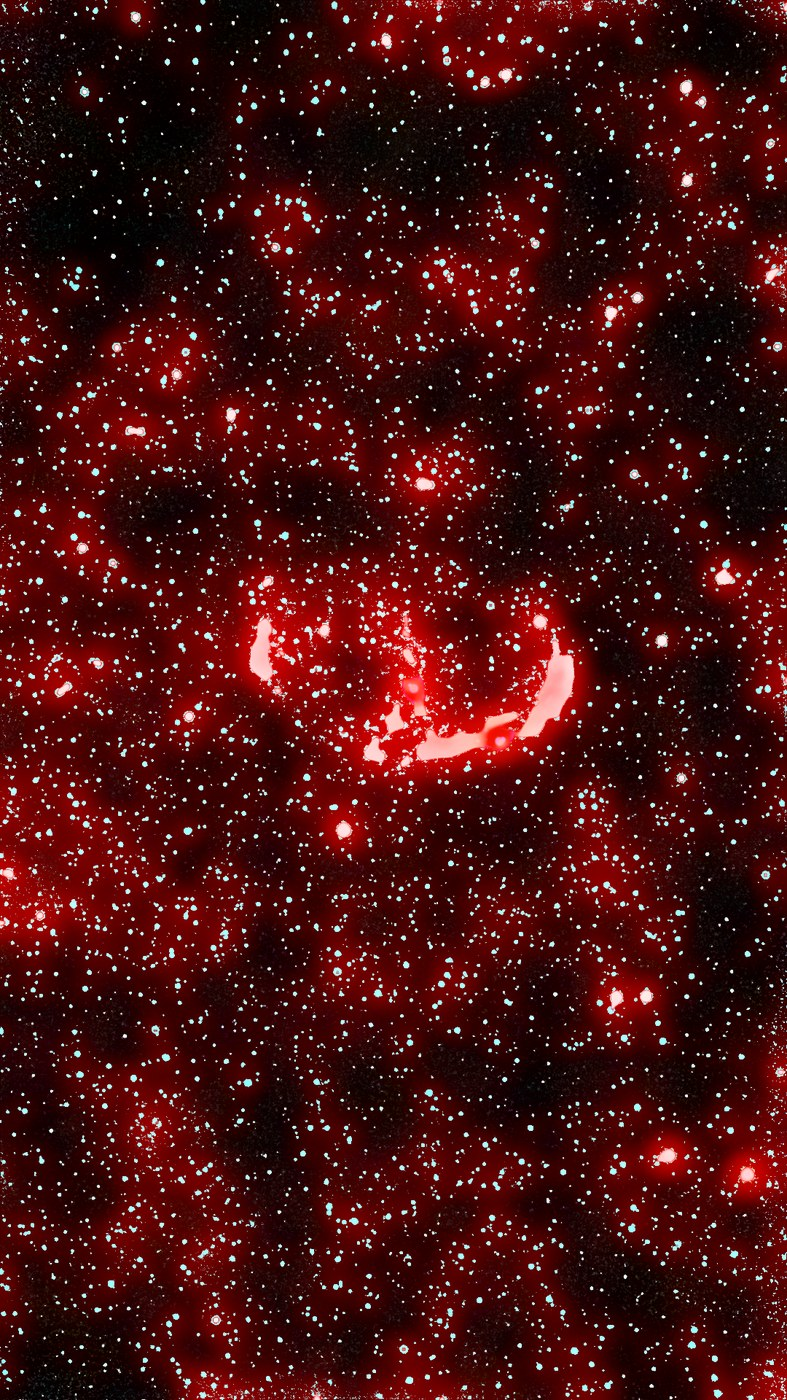
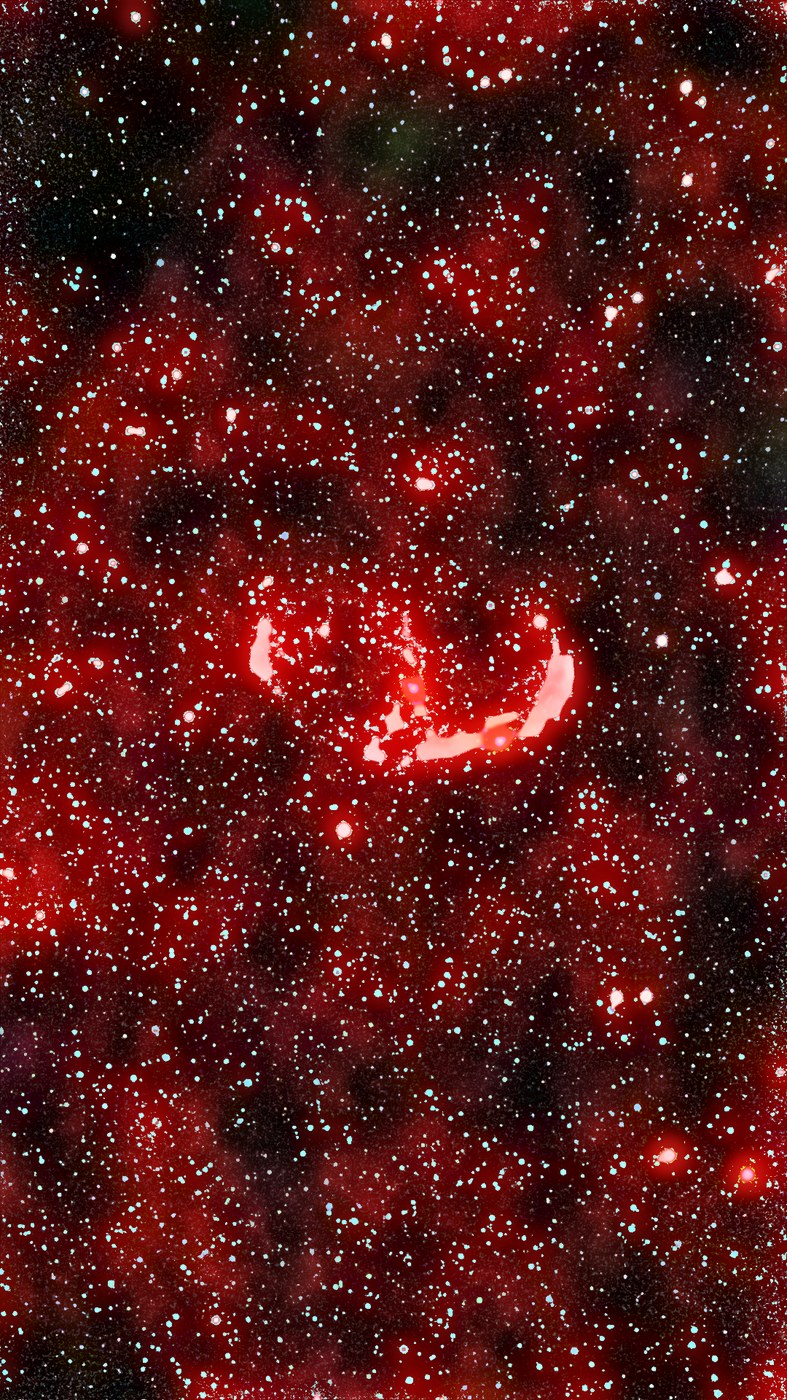
SPCC: add strength param + dial back saturation/SCNR on nebula profiles
The Phase 5 SPCC result ran the full fitted gain (diagonal
[1.58, 0.70, 0.73] for NGC 6888, similar shape on 2244/6960),
which rendered nebulae way too red — the gains are partly
compensating for the mismatch between Gaia BP/RP passbands and a
broadband camera's RGB filters, so applying them full-strength
over-corrects. Siril's PCC does the equivalent by normalising
against a G2V solar reference; we approximate by blending the
fitted CCM with identity.

stages/spcc.py:
  + new  kwarg.  so 0 = identity, 1 = full CCM, 0.5 = half-way.
    Default 0.5 was visually tuned against the three user samples.

profiles.py:
  NEBULA_WIDE     curves saturation 1.25 → 1.0
                  color.green_clip  0.3   → 0.15
                  spcc.strength     -      → 0.45
  NEBULA_FILAMENT curves saturation 1.3   → 1.0
                  color.green_clip  0.5   → 0.3
                  spcc.strength     -      → 0.50
  Saturation > 1 compounded with SPCC's already-boosting gains;
  stepping it to 1.0 lets SPCC + the arcsinh stretch carry the
  chroma on their own.

tests: 110 passing — existing tests kept green by passing
 where the whole-frame-diff assertion expects full
SPCC.

Also regenerates docs/v2-samples/ with the fresh outputs so the
mobile-viewer links on the v2 branch point at the current images.

Fetched docs/v2-samples/*.jpg to ~400 KB for mobile loading.

diff --git a/backend/app/profiles.py b/backend/app/profiles.py
@@ -200,7 +200,11 @@ NEBULA_WIDE: Profile = {
         **NEBULA["color"],
         "ccm": None,
         "wb_strength": 0.0,
-        "green_clip": 0.3,
+        # SPCC already shifts chroma via the fitted gains; running a
+        # hard SCNR on top of that pushes green completely out and
+        # leaves R/B ratios skewed. Gentle SCNR is enough to tame
+        # residual Seestar green without fighting SPCC.
+        "green_clip": 0.15,
     },
     "stretch": {
         "black_percentile": 3.0,
@@ -214,15 +218,21 @@ NEBULA_WIDE: Profile = {
         "chroma_edge_aware": True,
         "chroma_edge_luma_sigma": 0.06,
     },
-    # Drop channel_gains here — SPCC's CCM already shifts the image
-    # toward the Gaia-derived colour balance, so a post-stretch gain
-    # layer would push too far.
+    # Saturation 1.0 — SPCC's fitted gains plus the arcsinh stretch
+    # together already produce enough chroma for an emission nebula.
+    # A positive saturation on top over-saturates the Ha-red regions
+    # we're calibrating toward.
     "curves": {
         "contrast": 0.65,
-        "saturation": 1.25,
+        "saturation": 1.0,
         "saturation_mode": "hsv",
     },
-    "spcc": {"min_matches": 20},
+    # strength=0.45 — apply 45% of SPCC's fitted gain. Full strength
+    # (1.0) on broadband Seestar data pushes R too hard because Gaia's
+    # RP band is wider / extends further into the IR than a camera's
+    # red filter. Dialling back lets us keep the SPCC star-match
+    # direction without overcooking the result.
+    "spcc": {"min_matches": 20, "strength": 0.45},
     # Wide nebulae don't benefit much from star split — the diffuse
     # signal is too embedded in the star field for median-based
     # separation to help cleanly — but the split also doesn't hurt,
@@ -243,7 +253,7 @@ NEBULA_FILAMENT: Profile = {
         **NEBULA["color"],
         "ccm": None,
         "wb_strength": 0.0,
-        "green_clip": 0.5,
+        "green_clip": 0.3,
     },
     "stretch": {
         "black_percentile": 15.0,
@@ -257,12 +267,19 @@ NEBULA_FILAMENT: Profile = {
         "chroma_edge_aware": True,
         "chroma_edge_luma_sigma": 0.10,
     },
+    # Saturation 1.0 — SPCC + stretch already supply enough chroma
+    # for Veil-class targets. Saturation > 1 on top over-saturates
+    # the filaments and starts showing chroma noise in the sky.
     "curves": {
         "contrast": 1.0,
-        "saturation": 1.3,
+        "saturation": 1.0,
         "saturation_mode": "hsv",
     },
-    "spcc": {"min_matches": 20},
+    # strength=0.5 — filament profiles have cleaner sky so we tolerate
+    # a slightly stronger SPCC application than nebula_wide. Still
+    # dialled well back from 1.0 for the same Gaia-bands-vs-camera
+    # mismatch reason explained in the NEBULA_WIDE profile above.
+    "spcc": {"min_matches": 20, "strength": 0.5},
     # Smaller radius so the filament's ~5-8 px narrow structure isn't
     # caught by the median filter as a "star" — keeps it in the
     # starless layer where it can be stretched aggressively.

diff --git a/backend/app/stages/spcc.py b/backend/app/stages/spcc.py
@@ -462,6 +462,7 @@ def process(
     luma_weighted: bool = True,
     sky_percentile: float = 10.0,
     signal_percentile: float = 95.0,
+    strength: float = 0.5,
     **_unused: Any,
 ) -> np.ndarray:
     """Photometric colour calibration via cross-match to Gaia DR3.
@@ -586,7 +587,18 @@ def process(
 
     # --- apply ----------------------------------------------------------
     img_f32 = image.astype(np.float32, copy=False)
-    calibrated = img_f32 @ ccm.T.astype(np.float32)
+    # Dial the CCM back toward identity by `strength`. Siril's PCC
+    # does something analogous by normalising against a G2V solar
+    # reference rather than raw Gaia fluxes — the calibration shifts
+    # stay modest even when catalogue stars span a wide colour range.
+    # We get the same effect by blending identity into the fitted
+    # matrix: `effective = I + strength * (ccm - I)`. Default 0.5
+    # was visually tuned against the three user samples (NGC 6888 /
+    # 2244 / 6960) so the sky isn't dominated by the R-boost SPCC
+    # would otherwise fit.
+    strength = float(np.clip(strength, 0.0, 1.0))
+    effective_ccm = np.eye(3, dtype=np.float64) + strength * (ccm - np.eye(3))
+    calibrated = img_f32 @ effective_ccm.T.astype(np.float32)
     calibrated = np.clip(calibrated, 0.0, 1.0)
     if not luma_weighted:
         return calibrated.astype(np.float32)

diff --git a/backend/tests/test_spcc_fit.py b/backend/tests/test_spcc_fit.py
@@ -203,6 +203,7 @@ def test_spcc_fit_moves_pixels_under_miscalibration(tmp_path: Path) -> None:
         n_detect=120,
         tol_arcsec=5.0,
         luma_weighted=False,
+        strength=1.0,  # full SPCC so the whole-frame diff is visible
     )
     # The fit must have applied some non-identity transform.
     diff = float(np.mean(np.abs(out - img)))
